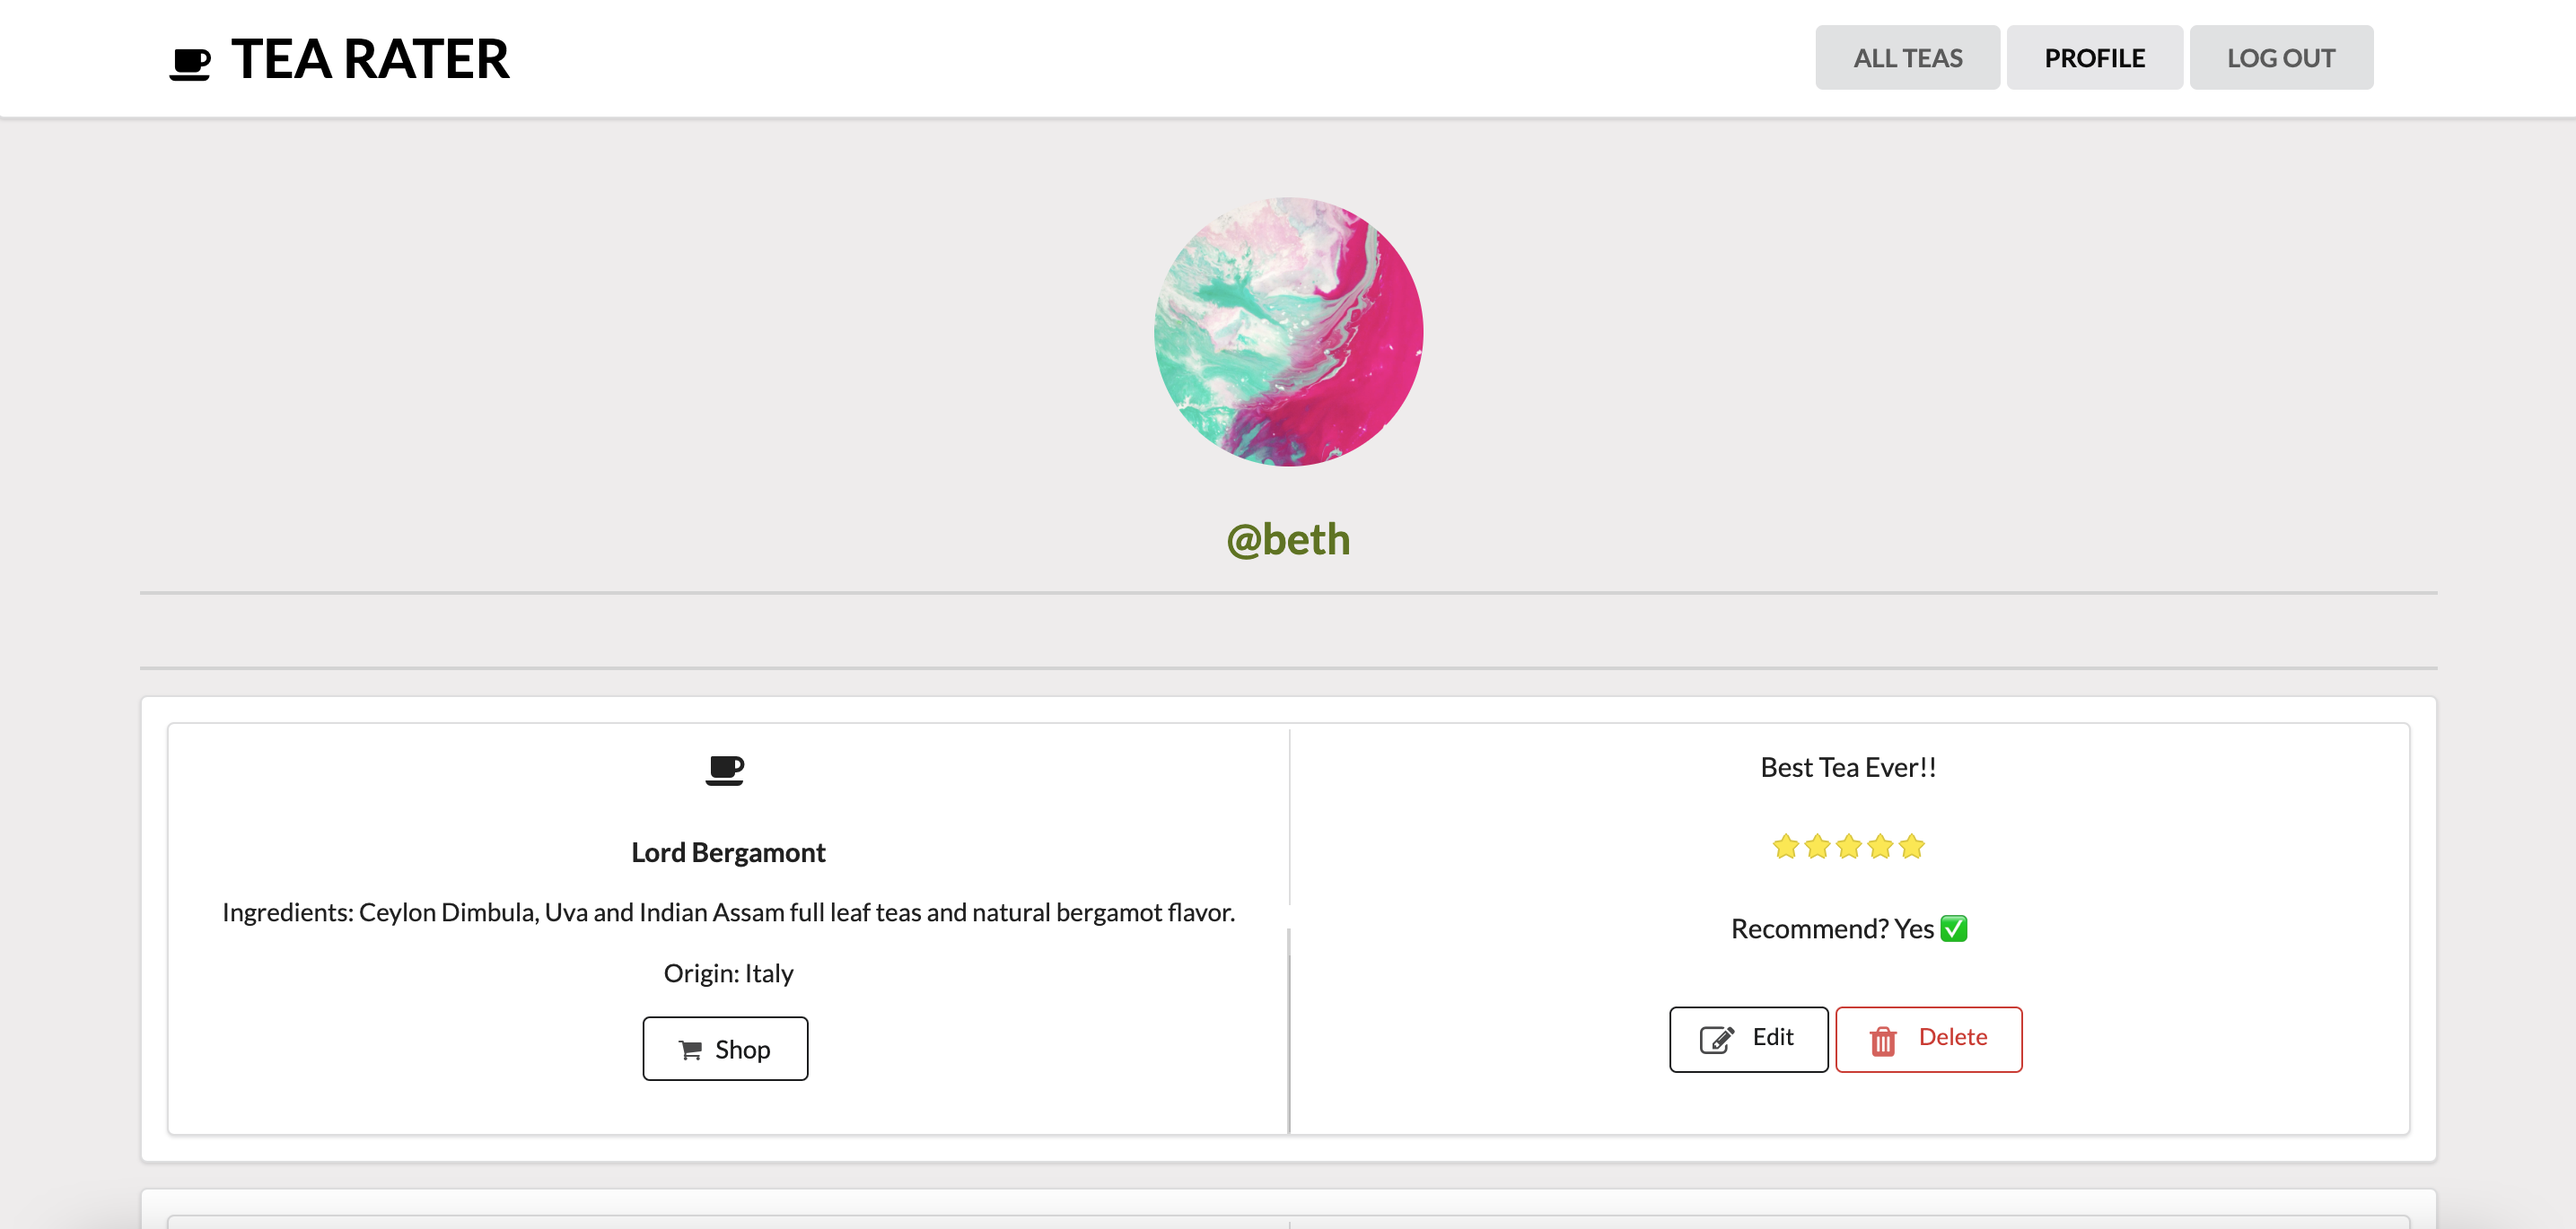
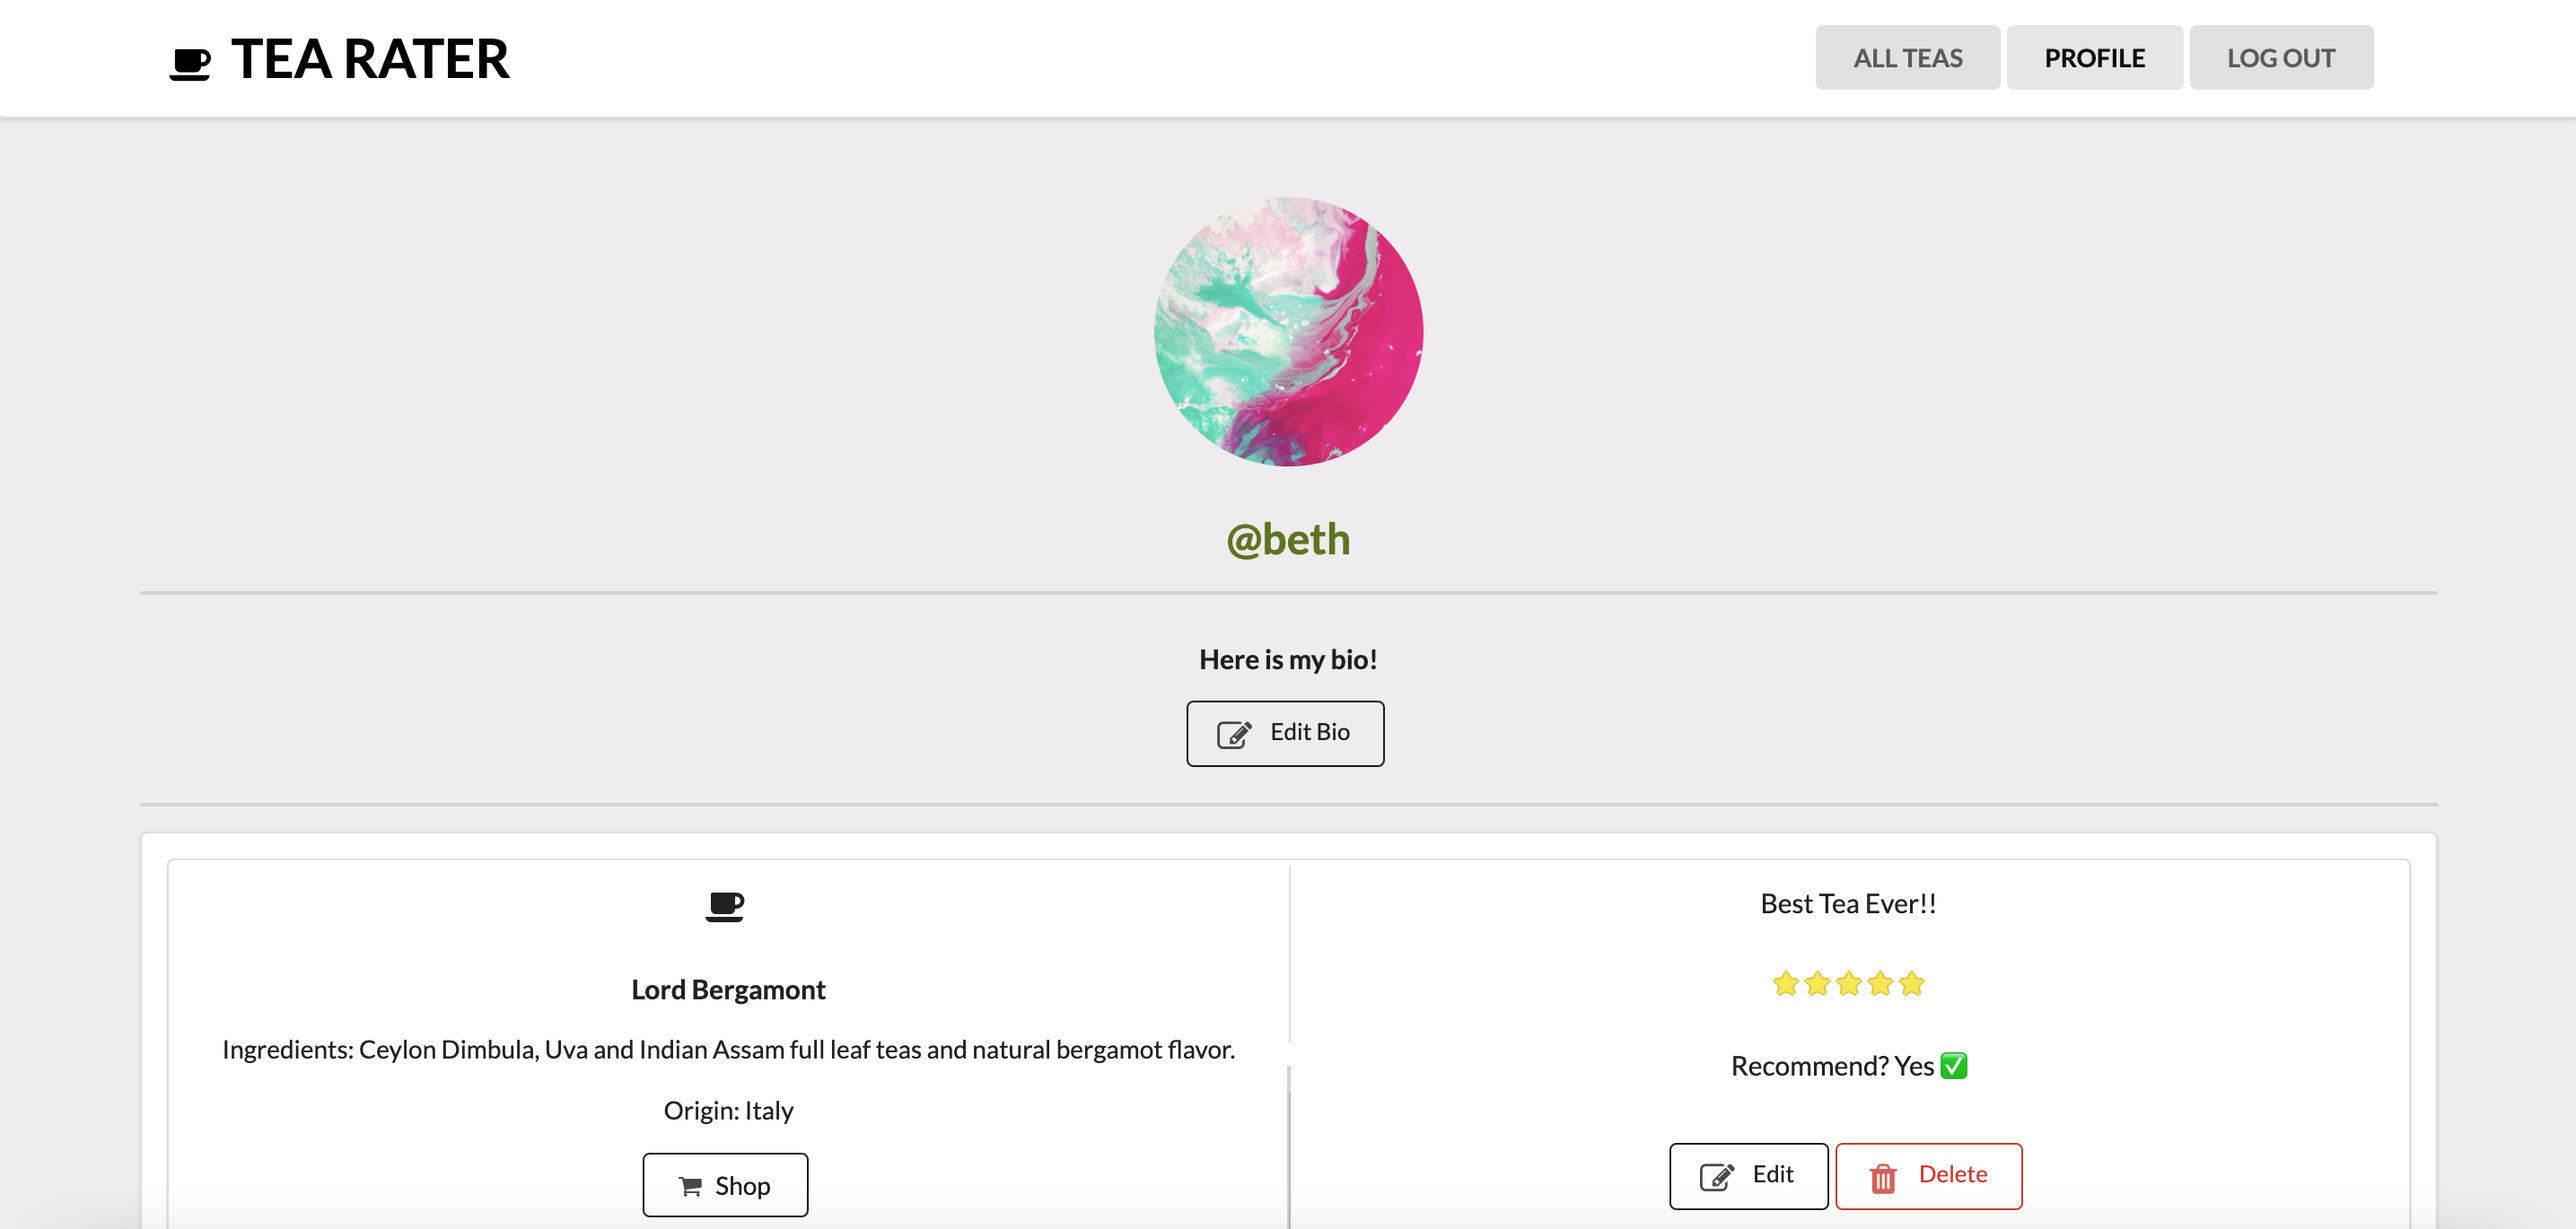
Edit Bio state updates correctly. README updated

diff --git a/client/src/components/UserPage.js b/client/src/components/UserPage.js
@@ -2,9 +2,9 @@ import React, {useState} from 'react'
 import UserReviewList from './UserReviewList'
 import EditBio from './EditBio'
 
-function UserPage({ user, setUser, reviews, setReviews }) {
+function UserPage({ user, reviews, setReviews }) {
   const [userReviews, setUserReviews] = useState(user.reviews)
-  const [userBio, setUserBio] = useState(user.bio)
+  const [userBio, setUserBio] = useState({bio: user.bio})
   const [showEditForm, setShowEditForm] = useState(false)
 
   function handleEditForm(e, showEditForm){
@@ -23,7 +23,7 @@ function UserPage({ user, setUser, reviews, setReviews }) {
       </div>
       <h2>@{user.username}</h2>
       <p className="divider"></p>
-      <h4>{user.bio}</h4>
+      <h4>{userBio.bio}</h4> 
 
       <button className="ui small black basic button" onClick={(e) => handleEditForm(e, showEditForm)}>
         <i className="large edit icon"></i>  
@@ -35,7 +35,6 @@ function UserPage({ user, setUser, reviews, setReviews }) {
         <EditBio 
           key={user.id} 
           user={user}
-          setUser={setUser} ////
           userBio={userBio} 
           setUserBio={setUserBio}
           showEditForm={showEditForm}

diff --git a/client/src/components/EditBio.js b/client/src/components/EditBio.js
@@ -1,10 +1,8 @@
 import React,{ useState } from 'react'
 
-function EditBio({ user, setUser, userBio, setUserBio, showEditForm, setShowEditForm }) {
+function EditBio({ user, userBio, setUserBio, showEditForm, setShowEditForm }) {
     
-    const [formData, setFormData] = useState ({
-        bio: userBio
-    })
+    const [formData, setFormData] = useState(userBio)
 
     function handleChange(e) {
         setFormData({
@@ -26,8 +24,7 @@ function EditBio({ user, setUser, userBio, setUserBio, showEditForm, setShowEdit
             body: JSON.stringify(editedBio)
         })
         .then(response => response.json())
-        .then(setUserBio({bio: editedBio}))
-        .then(setUser(user)) ////
+        .then(setUserBio(editedBio))
         .then(setShowEditForm(!showEditForm))
     }
 

diff --git a/client/src/App.js b/client/src/App.js
@@ -91,7 +91,6 @@ function App() {
         <Route path="/profile">
             <UserPage 
               user={user}
-              setUser={setUser} ////
               reviews={reviews}
               setReviews={setReviews}
             />

diff --git a/README.md b/README.md
@@ -26,6 +26,7 @@ The application allows the user to
   * Edit a review left on on a tea
   * Delete a review left on a tea
   * View profile details and all reviews left on different teas on one page
+  * Edit their bio on profile page
   * Get routed to a shop to purchase the tea
 
 ## Styling
@@ -53,7 +54,7 @@ This application uses the following for styling
 ## Add Review Feature
 ![AddReview](./client/public/images/AddReview.png)
 
-## Profile Page
+## Profile Page / Edit Bio
 ![Profile](./client/public/images/Profile.png)
 
 ## Edit / Delete Review Feature

diff --git a/client/README.md b/client/README.md
@@ -26,6 +26,7 @@ The application allows the user to
   * Edit a review left on on a tea
   * Delete a review left on a tea
   * View profile details and all reviews left on different teas on one page
+  * Edit their bio on profile page
   * Get routed to a shop to purchase the tea
 
 ## Styling
@@ -53,7 +54,7 @@ This application uses the following for styling
 ## Add Review Feature
 ![AddReview](./public/images/AddReview.png)
 
-## Profile Page
+## Profile Page / Edit Bio
 ![Profile](./public/images/Profile.png)
 
 ## Edit / Delete Review Feature
